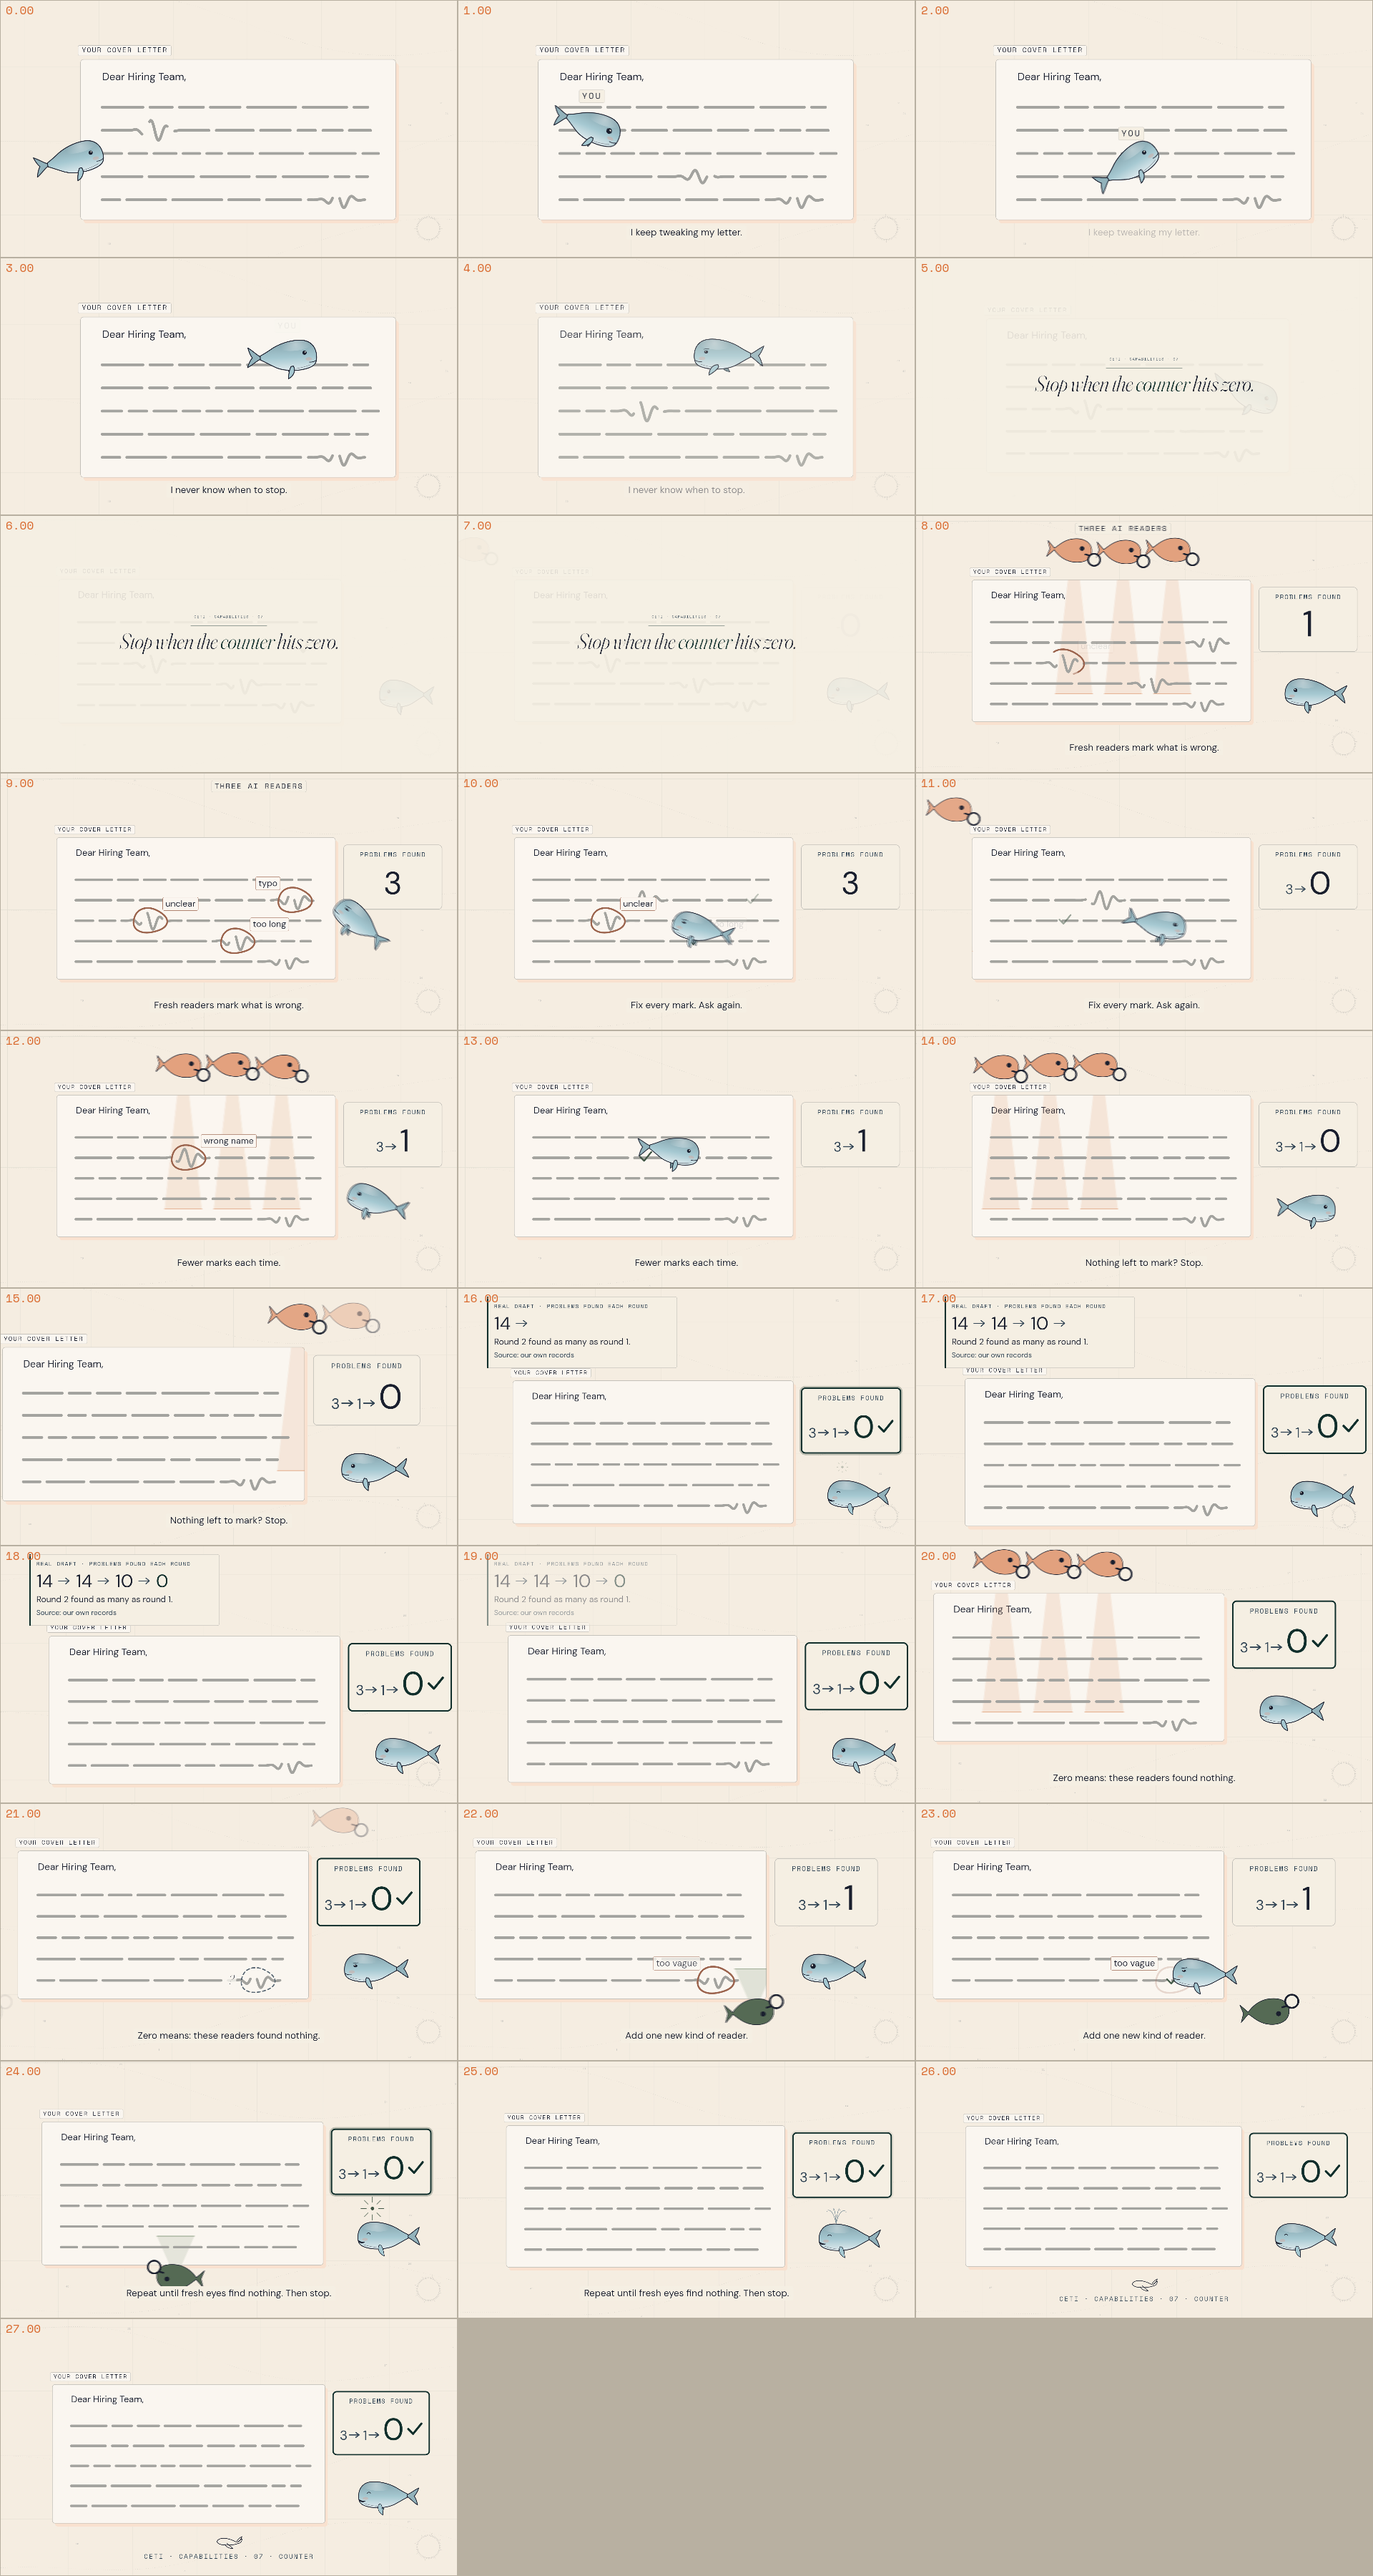
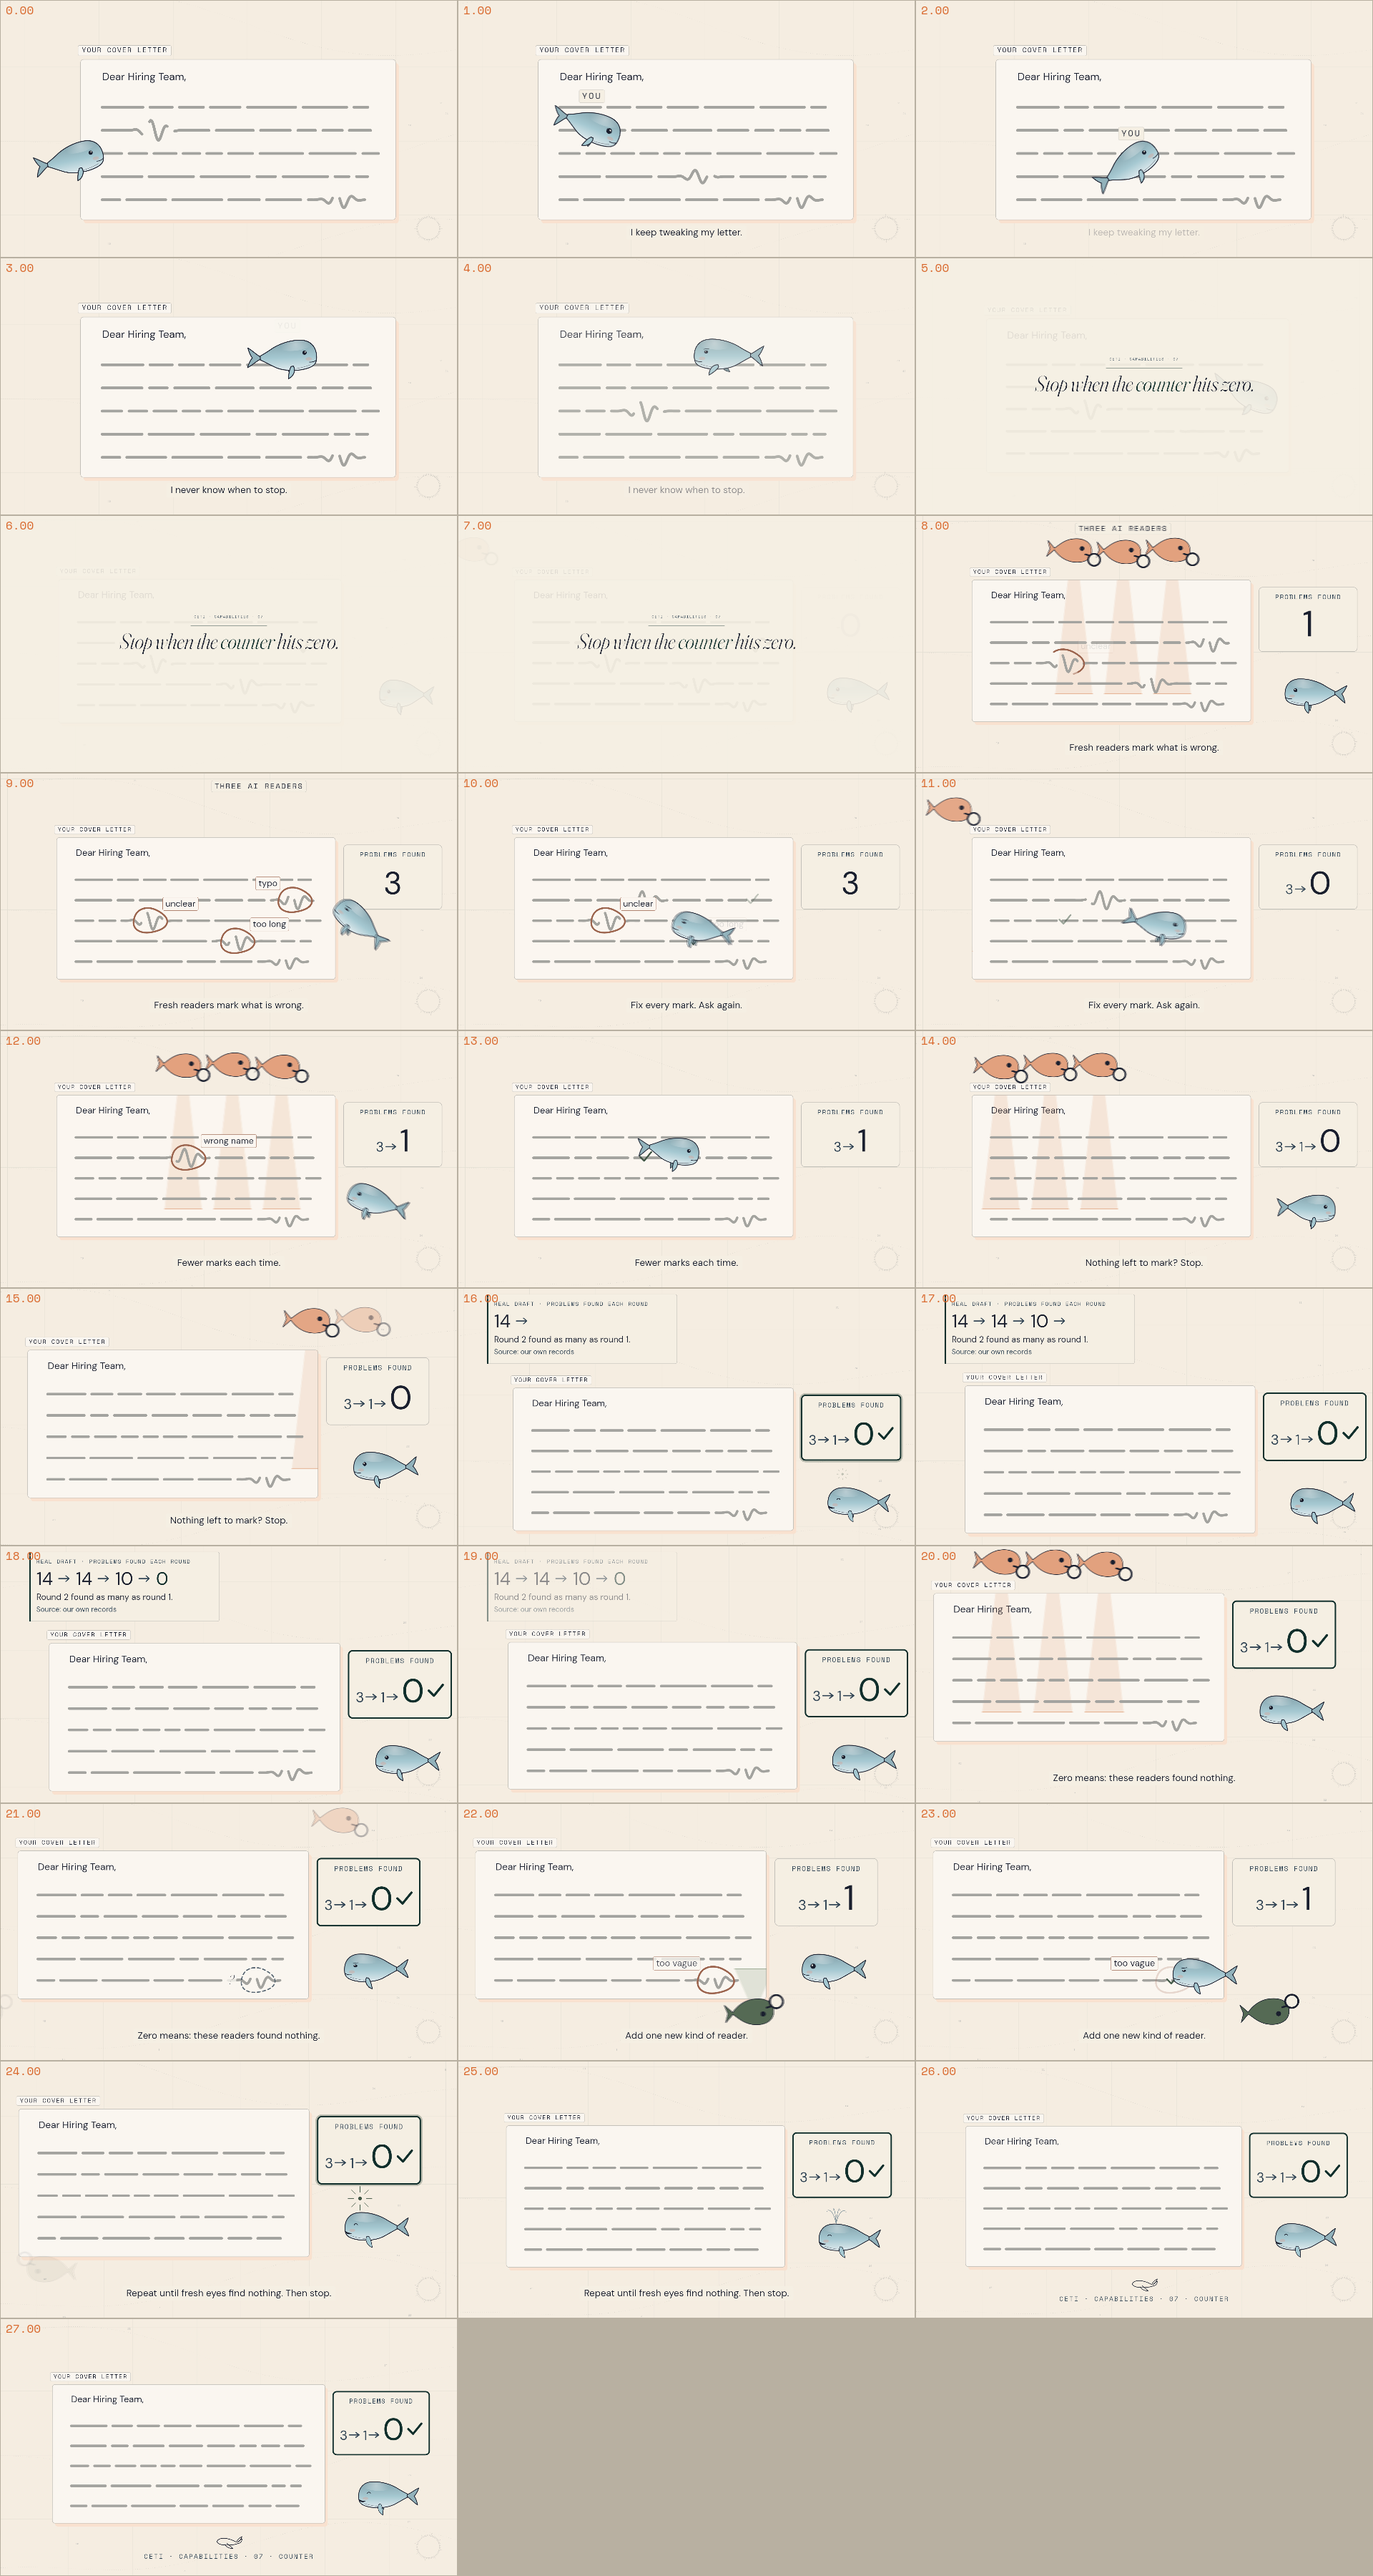
films/caps: steps v4 passes O2 (lay-viewer jury)
Claude-Session: https://claude.ai/code/session_01RCftyYG3bHQhecQi5siMfS

diff --git a/films/kh/caps/counter/film.js b/films/kh/caps/counter/film.js
@@ -72,8 +72,8 @@ const ROUND = [0, 1, 2].map(r => MARKS.filter(m => m.r === r));
 const ZERO = lapEnd(LAPS[2]) - 0.2;
 // the new kind of reader: green, looks UP from below the letter; out to the right, then back to check again
 const NR = { t0: 20.95, y: 300, v: 1100 }, NR_TURN = [23.0, 23.3];
-function nrX(t) { return t < NR_TURN[1] ? Math.min(640, -720 + NR.v * (t - NR.t0)) : 640 - NR.v * 0.9 * (t - NR_TURN[1]); }
-const NR_MARK = NR.t0 + (F.z.x + 720) / NR.v, NR_CLEAR = NR_TURN[1] + (640 - F.z.x) / (NR.v * 0.9);
+function nrX(t) { return t < NR_TURN[1] ? Math.min(640, -720 + NR.v * (t - NR.t0)) : 640 - NR.v * 1.4 * (t - NR_TURN[1]); }
+const NR_MARK = NR.t0 + (F.z.x + 720) / NR.v, NR_CLEAR = NR_TURN[1] + (640 - F.z.x) / (NR.v * 1.4);
 MARKS.push({ id: 'z', r: 3, k: 0, t: NR_MARK });
 const FLAW_AMP = (f, t) => { const a = f.amp ?? 1, inn = f.in == null || f.in < 0 ? 1 : ramp(t, f.in, f.in + 0.28, EASE.glaser), out = f.fix == null ? 0 : ramp(t, f.fix, f.fix + 0.25, EASE.warm); return a * inn * (1 - out); };
 
@@ -81,14 +81,14 @@ const FLAW_AMP = (f, t) => { const a = f.amp ?? 1, inn = f.in == null || f.in < 
 const CARD = [15.65, 19.15];
 function cam(t) {
   const pull = ramp(t, 3.9, 6.6, EASE.rest), push = ramp(t, 14.4, 15.2, EASE.warm), rel = ramp(t, 15.4, 16.1, EASE.warm);
-  const lim = ramp(t, 19.3, 20.1, EASE.warm), lrel = ramp(t, 23.4, 24.6, EASE.warm), end = ramp(t, 24.6, DUR, EASE.rest);
+  const lim = ramp(t, 19.3, 20.1, EASE.warm), lrel = ramp(t, 23.9, 24.9, EASE.warm), end = ramp(t, 24.6, DUR, EASE.rest);
   let z = lerp(1.3, 1.15, pull), x = lerp(-60, 90, pull), y = lerp(-40, -30, pull);
-  z = lerp(z, 1.25, push); x = lerp(x, 230, push); z = lerp(z, 1.15, rel); x = lerp(x, 90, rel);
+  z = lerp(z, 1.2, push); x = lerp(x, 170, push); z = lerp(z, 1.15, rel); x = lerp(x, 90, rel);
   z += 0.05 * win(t, CARD[0], CARD[1] + 0.3, 1.6, 0.6);           // a slow breath while the card is up
   z = lerp(z, 1.2, lim); x = lerp(x, 200, lim); y = lerp(y, 20, lim);
   z = lerp(z, 1.15, lrel); x = lerp(x, 120, lrel); y = lerp(y, -30, lrel);
   const card = win(t, CARD[0] - 0.25, CARD[1] + 0.25, 0.5, 0.45);
-  return { x, y, z: z - 0.03 * end, ax: 960, ay: 540 + 120 * card }; }
+  return { x, y, z: z - 0.03 * end, ax: 960, ay: 540 + 150 * card }; }
 
 // ---------- text ----------
 const T0 = 3.8, T_LOCK = 25.7, T_COUNTER = 6.9;
@@ -161,7 +161,7 @@ function drawFrame(c, t) {
     for (let k = 0; k < 3; k++) { const px = ld - GAP * k; if (px < PX0 - 120 || px > PX1 + 120) continue;
       c.fillStyle = rgba(RBEAM, 0.16 * a); c.beginPath(); c.moveTo(X(px - 22), Y(PY0)); c.lineTo(X(px + 22), Y(PY0)); c.lineTo(X(px + 68), Y(BEAM_Y)); c.lineTo(X(px - 68), Y(BEAM_Y)); c.closePath(); c.fill();
       c.strokeStyle = rgba(RBEAM, 0.6 * a); c.lineWidth = 3 * z; c.beginPath(); c.moveTo(X(px - 68), Y(BEAM_Y)); c.lineTo(X(px + 68), Y(BEAM_Y)); c.stroke(); } }
-  { const a = win(t, NR.t0 + 0.4, 24.3, 0.3, 0.4); if (a > 0) { const px = nrX(t);
+  { const a = win(t, NR.t0 + 0.4, 23.95, 0.3, 0.3); if (a > 0) { const px = nrX(t);
       c.fillStyle = rgba(NBEAM, 0.2 * a); c.beginPath(); c.moveTo(X(px - 22), Y(PY1)); c.lineTo(X(px + 22), Y(PY1)); c.lineTo(X(px + 68), Y(150)); c.lineTo(X(px - 68), Y(150)); c.closePath(); c.fill();
       c.strokeStyle = rgba(NBEAM, 0.7 * a); c.lineWidth = 3 * z; c.beginPath(); c.moveTo(X(px - 68), Y(150)); c.lineTo(X(px + 68), Y(150)); c.stroke(); } }
   c.restore();
@@ -188,7 +188,7 @@ function drawFrame(c, t) {
       reader(c, X(px), Y(POD_Y + Math.sin(t * 7 + k * 1.9) * 5), z, READER, 1, false, a * fade); } }
   { const a = RA(t, 'readers'); if (a > 0) { const px = lead(LAPS[0], t) - GAP; S.chip(c, 'Three AI readers', X(clamp(px, -230, 200)), Y(POD_Y - 72), { f: 'mono', size: Math.round(28 * z), col: INK, a, align: 'center', bg: C.paper, border: EDGE, track: 0.12 }); } }
   // the new kind of reader (green, looking up from below), out and back
-  { const a = win(t, NR.t0, 24.5, 0.3, 0.4); if (a > 0) { const dir = t < NR_TURN[0] ? 1 : t < NR_TURN[1] ? lerp(1, -1, ramp(t, NR_TURN[0], NR_TURN[1], EASE.warm)) : -1;
+  { const a = win(t, NR.t0, 24.05, 0.3, 0.3); if (a > 0) { const dir = t < NR_TURN[0] ? 1 : t < NR_TURN[1] ? lerp(1, -1, ramp(t, NR_TURN[0], NR_TURN[1], EASE.warm)) : -1;
       reader(c, X(nrX(t)), Y(NR.y + Math.sin(t * 6) * 4), z * 1.05, NEWR, dir, true, a); } }
 
   // the counter: PROBLEMS FOUND — earlier rounds, then this round, in one row
@@ -231,7 +231,7 @@ function drawFrame(c, t) {
   const veil = win(t, 3.9, T0 + 3.68, 0.35, 0.4); if (veil > 0) { c.fillStyle = rgba(C.paper, 0.9 * veil); c.fillRect(0, 0, W, H); }
 
   // the real-numbers card (top left, on clean paper above the letter)
-  const ka = RA(t, 'card'); if (ka > 0) { const x0 = 150, y0 = 34, dy = (1 - EASE.defer(ramp(t, CARD[0], CARD[0] + 0.35))) * 8, wd = 800, ht = 300;
+  const ka = RA(t, 'card'); if (ka > 0) { const x0 = 150, y0 = 24, dy = (1 - EASE.defer(ramp(t, CARD[0], CARD[0] + 0.35))) * 8, wd = 800, ht = 292;
     c.save(); c.globalAlpha = ka; c.fillStyle = C.paper; c.strokeStyle = EDGE; c.lineWidth = 1.4; c.beginPath(); c.roundRect(x0 - 30, y0 + dy, wd, ht, 8); c.fill(); c.stroke();
     c.fillStyle = DSG; c.fillRect(x0 - 30, y0 + dy, 6, ht); c.restore();
     text(c, 'Real draft · problems found each round', x0, y0 + 48 + dy, { f: 'mono', size: 24, col: SOFT, a: ka, track: 0.1 });
@@ -240,7 +240,7 @@ function drawFrame(c, t) {
       if (j < 3) { c.save(); c.globalAlpha = ta; c.strokeStyle = SOFT; c.lineWidth = 4; const ax = nx + w + 24, ay = y0 + 112 + dy; c.beginPath(); c.moveTo(ax, ay); c.lineTo(ax + 44, ay); c.moveTo(ax + 30, ay - 12); c.lineTo(ax + 44, ay); c.lineTo(ax + 30, ay + 12); c.stroke(); c.restore(); }
       nx += w + 96; });
     text(c, 'Round 2 found as many as round 1.', x0, y0 + 202 + dy, { f: 'sans', size: 36, col: INK, a: ka });
-    text(c, 'Source: our own records', x0, y0 + 256 + dy, { f: 'sans', size: 30, col: SOFT, a: ka }); }
+    text(c, 'Source: our own records', x0, y0 + 252 + dy, { f: 'sans', size: 30, col: SOFT, a: ka }); }
 
   for (const r of READ) if (r.kind === 'caption') S.caption(c, t, r, { size: 40 });
   S.open(c, t - T0, { no: '07', title: 'Stop when the <i>counter</i> hits zero.', accent: ACC }, { out: 3.6 });

diff --git a/films/kh/caps/gate/film.js b/films/kh/caps/gate/film.js
@@ -113,7 +113,7 @@ const INTENT = { problem: 'Your AI helper wrote a report; it passed every check,
   belief: 'Every new mistake becomes a new check. Passing means no mistakes we know of, not quality.' };
 // 'report' trips the expert list (it matches repo*); the report page is on screen from 0 s, before the word (0.25 s)
 const TERMS = [{ term: 'report', pictured_at: 0 }];
-const CY = 432;                                        // the card's top edge: centred over the gate row, under the icons
+const CY = 470;                                        // the card's top edge: centred over the gate row, under the icons
 const RD = id => READ.find(r => r.id === id), RA = (t, id) => { const r = RD(id); return win(t, r.in, r.out, r.fi, r.fo); };
 
 // ---------- icons: a paper disc on the lintel with one mark for the kind it checks ----------
@@ -274,16 +274,18 @@ function drawFrame(c, t) {
     const an2 = Math.atan2(y2 - Y(40), x2 - X(gx + GW + 150)); c.moveTo(x2 - hl * Math.cos(an2 - 0.5), y2 - hl * Math.sin(an2 - 0.5)); c.lineTo(x2, y2); c.lineTo(x2 - hl * Math.cos(an2 + 0.5), y2 - hl * Math.sin(an2 + 0.5)); c.stroke(); c.restore(); } }
 
   // the title hinge: the scene goes still and dims slightly (30%) under the title card, the title names what we just watched
-  const veil = win(t, 5.35, T0 + 3.37, 0.35, 0.4); if (veil > 0) { c.fillStyle = rgba(C.paper, 0.3 * veil); c.fillRect(0, 0, W, H); }
+  const veil = win(t, 5.35, T0 + 3.37, 0.35, 0.4); if (veil > 0) { c.fillStyle = rgba(C.paper, 0.3 * veil); c.fillRect(0, 0, W, H);
+    c.save(); c.font = `92px ${KH.FONTS.disp}`; const tw = c.measureText('Every new mistake gets a check.').width; c.restore();   // a paper band under the title only
+    c.fillStyle = rgba(C.paper, 0.9 * veil); c.beginPath(); c.roundRect(960 - tw / 2 - 50, 395, tw + 100, 215, 14); c.fill(); }
 
   // the real-run card (top left, clean paper round it)
   const ka = RA(t, 'card'); if (ka > 0) { const ci = RD('card').in, dy = (1 - EASE.defer(ramp(t, ci, ci + 0.35))) * 8;
-    c.save(); c.font = `64px ${KH.FONTS.disp}`; const w1 = c.measureText('7 mistakes, 7 new checks').width; c.font = `34px ${KH.FONTS.sans}`; const w2 = c.measureText('Source: our own list of mistakes').width; c.restore();
+    c.save(); c.font = `78px ${KH.FONTS.disp}`; const w1 = c.measureText('7 mistakes, 7 new checks').width; c.font = `38px ${KH.FONTS.sans}`; const w2 = c.measureText('Source: our own list of mistakes').width; c.restore();
     const wd = Math.max(w1, w2) + 60, x0 = 960 - wd / 2 + 30; c.save(); c.globalAlpha = ka; c.fillStyle = C.paper; c.strokeStyle = mix(C.paper, C.slate, 0.4); c.lineWidth = 1.2;
-    c.beginPath(); c.roundRect(x0 - 30, CY + dy, wd, 230, 8); c.fill(); c.stroke(); c.fillStyle = OLIVE; c.fillRect(x0 - 30, CY + dy, 6, 230); c.restore();
-    text(c, 'True story', x0, CY + 54 + dy, { f: 'mono', size: 34, col: SOFT, a: ka });
-    text(c, '7 mistakes, 7 new checks', x0, CY + 134 + dy, { f: 'disp', size: 64, col: INK, a: ka });
-    text(c, 'Source: our own list of mistakes', x0, CY + 196 + dy, { f: 'sans', size: 34, col: SOFT, a: ka }); }
+    c.beginPath(); c.roundRect(x0 - 30, CY + dy, wd, 262, 8); c.fill(); c.stroke(); c.fillStyle = OLIVE; c.fillRect(x0 - 30, CY + dy, 6, 262); c.restore();
+    text(c, 'True story', x0, CY + 56 + dy, { f: 'mono', size: 36, col: SOFT, a: ka });
+    text(c, '7 mistakes, 7 new checks', x0, CY + 150 + dy, { f: 'disp', size: 78, col: INK, a: ka });
+    text(c, 'Source: our own list of mistakes', x0, CY + 222 + dy, { f: 'sans', size: 38, col: SOFT, a: ka }); }
 
   for (const r of READ) if (r.kind === 'caption') S.caption(c, t, r, { size: 40 });
   S.open(c, t - T0, { no: '02', title: 'Every new mistake gets a <i>check</i>.', accent: ACC }, { out: 3.3 });
